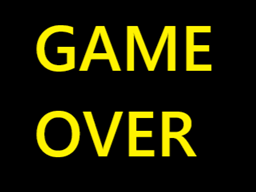
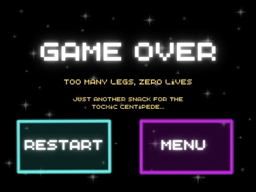
Gameover y botones

diff --git a/source/juego.c b/source/juego.c
@@ -88,6 +88,26 @@ void juego()
 				InicializarVariablesPartida();
 			}
 		}
+		else if (ESTADO==GAMEOVER){
+			touchRead(&PANT_DAT);
+			//Botón RESTART
+			if(PANT_DAT.px>=20 && PANT_DAT.px<=110 && PANT_DAT.py>=120 && PANT_DAT.py<=170){
+				ESTADO=PARTIDA;
+				ACCION=CARGANDO_FONDO;
+				InicializarVariablesPartida();
+			}
+			//Botón MENU
+			if(PANT_DAT.px>=140 && PANT_DAT.px<=230 && PANT_DAT.py>=120 && PANT_DAT.py<=170){
+				ESTADO=MENU;
+				MostrarMenu();
+			}
+			//Botón START
+			if(TeclaDetectada() && TeclaPulsada()==START){
+				ESTADO=PARTIDA;
+				ACCION=CARGANDO_FONDO;
+				InicializarVariablesPartida();
+			}
+		}
 		else if (ESTADO == PARTIDA){
 			switch(ACCION) {
 				case CARGANDO_FONDO:
@@ -161,11 +181,13 @@ void MostrarMenu(){
 }
 
 void MostrarGameOver(){
-	
+	InhibirIntTecla(A);
 	HabilitarIntTeclado();
 	HabilitarIntTempo();
 	HabilitarInterrupciones();
+	contador_tiempo_gameover=0;
 	visualizarGameOver();
+	LimpiarPantalla();
 }
 
 /***********************2025-2026*******************************/

diff --git a/source/rutinasAtencion.c b/source/rutinasAtencion.c
@@ -20,6 +20,7 @@ rutinasAtencion.c
 int ESTADO;
 int ACCION;
 int tick = 0;
+int contador_tiempo_gameover=0;
 
 //PROTAGONISTA
 protagonista prota;
@@ -552,6 +553,11 @@ void RutAtencionTempo()
 	}
 
 	else if (ESTADO==PARTIDA){
+		if(prota.vidas<=0){
+			ESTADO=GAMEOVER;
+			MostrarGameOver();
+			return;
+		}
 		if(ACCION != LIMPIANDO_PANTALLA || ACCION != MUERTE){
 			if (prota_cont_espera_mov < prota_cont_espera_mov_min){
 				prota_cont_espera_mov++;
@@ -607,6 +613,11 @@ void RutAtencionTempo()
 
 		}
 	} else if (ESTADO==GAMEOVER){
+		contador_tiempo_gameover++;
+		if(contador_tiempo_gameover>=1280){
+			ESTADO=MENU;
+			MostrarMenu();
+		}
 		iprintf("\x1b[22;8HPUNTUACION: %d", prota.puntos);
 	}
 }

diff --git a/include/juego.h b/include/juego.h
@@ -38,6 +38,8 @@ extern void MostrarMenu();
 
 extern void MostrarGameOver();
 
+extern int contador_tiempo_gameover;
+
 /*=================================================================================
  * PROTAGONISTA (NAVE DEL JUGADOR)
  =================================================================================*/

diff --git a/include/definiciones.h b/include/definiciones.h
@@ -102,6 +102,10 @@ extern int ACCION;
 #define PALETA3                 3
 #define PALETA4                 4
 
+//TIEMPOS
+  //128 ticks/seg * 10 seg
+#define contador_tiempo_gameover_max 1280 
+
 extern int PALETA;
 
 /***********************2025-2026*******************************/
